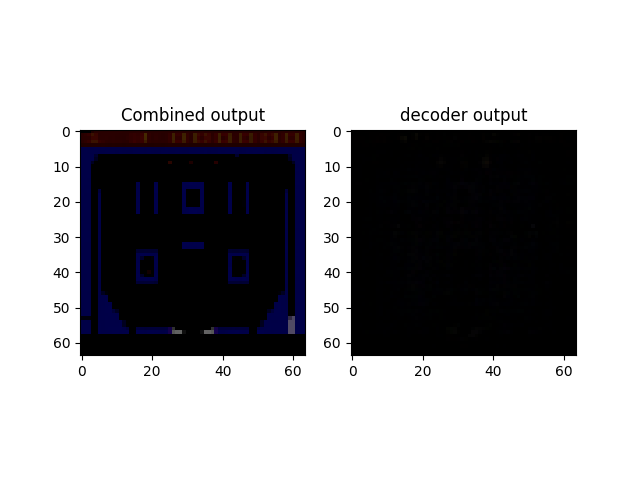
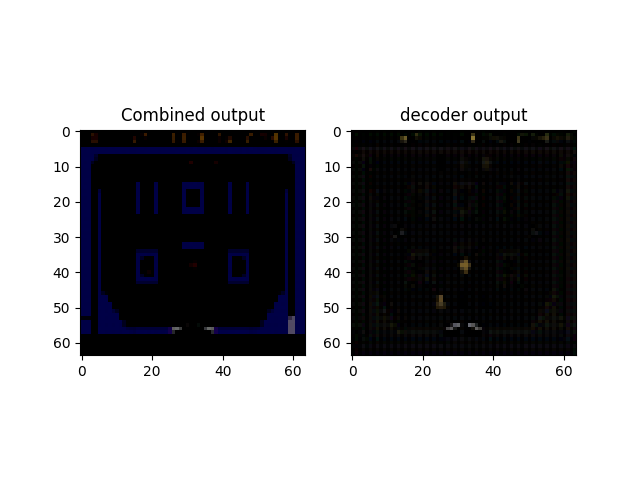
added normal dreamer branch

diff --git a/pydreamer/models/NewCNN.py b/pydreamer/models/NewCNN.py
@@ -9,13 +9,14 @@ import torch.distributions as D
 # matplotlib.use('TkAgg')
 import matplotlib.pyplot as plt
 import math
+from actnorm import ActNorm3d
 
 from .functions import *
 from .common import *
 
 class NewCNN(nn.Module):
 
-    def __init__(self, in_channels=3, cnn_depth=32, activation=nn.ReLU):
+    def __init__(self, in_channels=3, cnn_depth=32, activation=nn.ELU):
         super().__init__()
         self.out_dim = cnn_depth * 32
         kernels = (3, 3, 4, 4)
@@ -25,18 +26,19 @@ class NewCNN(nn.Module):
 
         self.hist_size = 3
 
-        self.model = nn.Sequential(
-            nn.Conv2d(self.hist_size * 3, d, 4, stride, bias=False),
-            nn.BatchNorm2d(d),
-            activation(),
-            nn.ConvTranspose2d(d, in_channels, 4, stride=2, bias=False),
-            nn.BatchNorm2d(in_channels),
-            activation()
-        )
+        # self.model = nn.Sequential(
+        #     nn.Conv2d(self.hist_size * 3, d, 4, stride, bias=False),
+        #     nn.BatchNorm2d(d),
+        #     activation(),
+        #     nn.ConvTranspose2d(d, in_channels, 4, stride=2, bias=False),
+        #     nn.BatchNorm2d(in_channels),
+        #     activation()
+        # )
 
         self.model_3d = nn.Sequential(
             nn.Conv3d(self.hist_size, d, kernels[0], stride, bias=False),
-            # nn.BatchNorm3d(d),
+            nn.BatchNorm3d(d),
+            # nn.InstanceNorm3d(d),
             activation(),
             nn.ConvTranspose3d(d, 1, kernels[1], stride=2, bias=False),
             nn.ReflectionPad3d((1, 0, 1, 0, 0, 0)),
@@ -46,7 +48,7 @@ class NewCNN(nn.Module):
         self.hist = [None] * self.hist_size
         self.last_input = None
         self.iter = 0
-        self.picture_every = 1000
+        self.picture_every = 100000
 
     def forward(self, x: Tensor) -> Tensor:
         if self.hist[0] is not None and self.hist[0].size() != x.size():
@@ -62,16 +64,16 @@ class NewCNN(nn.Module):
             self.hist[0] = self.last_input
 
         # combined_history = torch.cat(self.hist, -3)
-        # combined_history = torch.stack(self.hist, 2)
-        # combined_history, bd = flatten_batch(combined_history, 4)
-        # mean = combined_history.mean(dim=[0, 1])
-        mean = self.hist[0]
-        cnn_out = x
-        # cnn_out = self.model_3d(combined_history)
-        # cnn_out = unflatten_batch(cnn_out, bd)
-        # cnn_out = torch.squeeze(cnn_out)
-        # y = mean + cnn_out
-        y = mean
+        combined_history = torch.stack(self.hist, 2)
+        combined_history, bd = flatten_batch(combined_history, 4)
+        mean = combined_history.mean(dim=[0, 1])
+        # mean = self.hist[0]
+        # cnn_out = x
+        cnn_out = self.model_3d(combined_history)
+        cnn_out = unflatten_batch(cnn_out, bd)
+        cnn_out = torch.squeeze(cnn_out)
+        y = mean + cnn_out
+        # y = mean
         # combined_history = torch.stack(self.hist, 2)
         # combined_history, bd = flatten_batch(combined_history, 4)
         # y = self.model(combined_history)
@@ -92,7 +94,7 @@ class NewCNN(nn.Module):
                     print("found error while creating pictures cnn out 1:")
                     print(e)
             try: 
-                ax2.imshow(np.clip(mean.cpu().detach().numpy().astype('float64')[0][0].transpose((1,2,0)), 0, 1), interpolation='nearest')
+                ax2.imshow(np.clip(mean.cpu().detach().numpy().astype('float64').transpose((1,2,0)), 0, 1), interpolation='nearest')
                 ax2.set_title("mean")
             except Exception as e:
                 print("found error while creating pictures mean:")

diff --git a/pydreamer/models/decoders.py b/pydreamer/models/decoders.py
@@ -152,35 +152,28 @@ class ConvDecoder(nn.Module):
             nn.ConvTranspose2d(d, out_channels, kernels[3], stride))
 
         self.iter = 0
-        self.picture_every = 100
+        self.picture_every = 1000
 
     def forward(self, x: Tensor, p: Tensor = None) -> Tensor:
         x, bd = flatten_batch(x)
         y = self.model(x)
-        if p is not None:
-            p, bd_p = flatten_batch(p, 3)
-            combined_y = y + p
-            combined_y = unflatten_batch(combined_y, bd)
         y = unflatten_batch(y, bd)
 
-        if p is not None:
-            self.iter += 1
-            if self.iter == self.picture_every:
-                try:
-                    print("Creating pictures decoder")
-                    fig, (ax1, ax2) = plt.subplots(1,2)
-                    ax1.imshow(np.clip(combined_y.cpu().detach().numpy().astype('float64')[0][0][0].transpose((1,2,0)), 0, 1), interpolation='nearest')
-                    ax1.set_title("Combined output")
-                    ax2.imshow(np.clip(y.cpu().detach().numpy().astype('float64')[0][0][0].transpose((1,2,0)), 0, 1), interpolation='nearest')
-                    ax2.set_title("decoder output")
-                    plt.savefig('pictures/decoder_output.png')
-                    plt.close(fig)
-                    self.iter = 0
-                except:
-                    pass
+        self.iter += 1
+        if self.iter == self.picture_every:
+            try:
+                print("Creating pictures decoder")
+                fig, (ax1, ax2) = plt.subplots(1,2)
+                # ax1.imshow(np.clip(combined_y.cpu().detach().numpy().astype('float64')[0][0][0].transpose((1,2,0)), 0, 1), interpolation='nearest')
+                # ax1.set_title("Combined output")
+                ax2.imshow(np.clip(y.cpu().detach().numpy().astype('float64')[0][0][0].transpose((1,2,0)), 0, 1), interpolation='nearest')
+                ax2.set_title("decoder output")
+                plt.savefig('pictures/decoder_output.png')
+                plt.close(fig)
+                self.iter = 0
+            except:
+                self.iter = 0
 
-        if p is not None:
-            return combined_y
         return y
 
     def loss(self, output: Tensor, target: Tensor) -> Tensor:

diff --git a/pydreamer/models/dreamer.py b/pydreamer/models/dreamer.py
@@ -224,7 +224,7 @@ class WorldModel(nn.Module):
         self.decoder = MultiDecoder(features_dim, conf)
 
         
-        self.newcnn = NewCNN(in_channels=conf.image_channels, cnn_depth=conf.cnn_depth)
+        # self.newcnn = NewCNN(in_channels=conf.image_channels, cnn_depth=conf.cnn_depth)
 
         # RSSM
 
@@ -273,7 +273,8 @@ class WorldModel(nn.Module):
         # print(sum(p.numel() for p in self.encoder.parameters()))
         # print(sum(p.numel() for p in self.encoder.parameters() if p.requires_grad))
 
-        new_output = self.newcnn(obs['image'])
+        # new_output = self.newcnn(obs['image'])
+        new_output = None
 
         # Encoder
 

diff --git a/pydreamer/models/encoders.py b/pydreamer/models/encoders.py
@@ -47,7 +47,7 @@ class MultiEncoder(nn.Module):
         embeds = []
 
         if self.encoder_image:
-            image = obs['image'] - new_output
+            image = obs['image']
             T, B, C, H, W = image.shape
             if self.reward_input:
                 reward = obs['reward']
